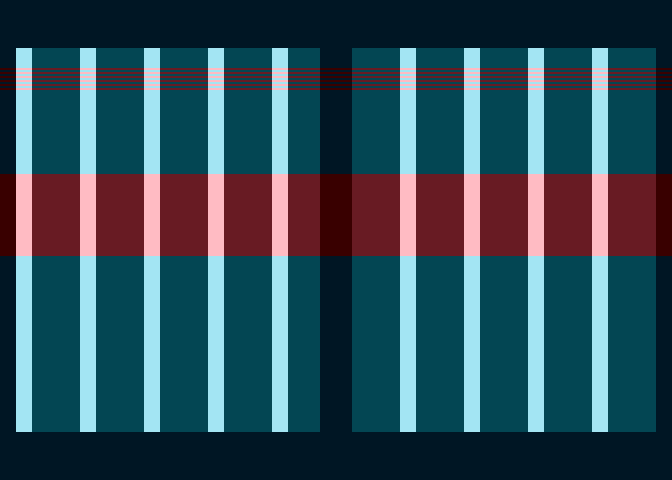
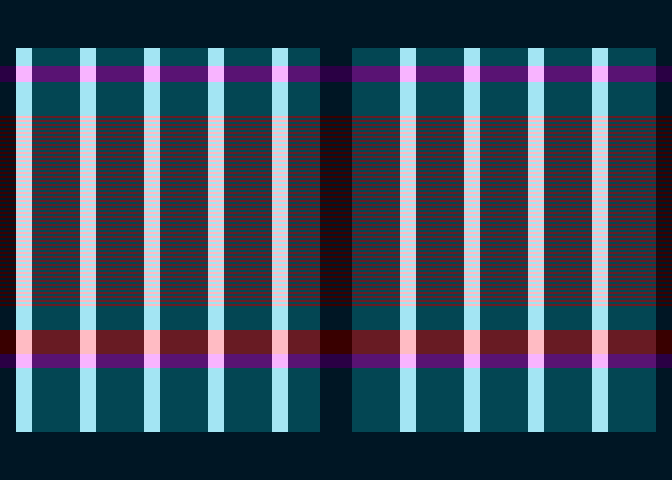
Mid-scanline colour splitting CONFIRMED on real hardware; calibration round 2
The staircase came back clean off the 800XL's CRT. A mid-scanline COLBK write
splits a line in GTIA mode 9 on real hardware and the edges are crisp -- no
smear across GTIA's 4-hi-res-pixel cell. This emulator cannot show it in any
build or mode, so the machine was the only way to find out.

Read off the ruler: steps even (linear), ~pixels 0-32 for 14 NOPs, so ~1.1-1.2
pixels per cycle -- close to the theoretical one mode-9 pixel per machine cycle.
What it did not pin down is the ceiling: with only 14 NOPs the run may simply
not have asked for enough delay, and if 32 pixels is the true limit the trick
only helps on the left third of the screen.

calib.xex is now round two: a 40-NOP slide over 20 steps four cycles apart,
deliberately demanding more than a scanline can afford, so the steps that overrun
come out DOUBLE HEIGHT and the first tall step is the measurement. Marker bands
above and below are now a THIRD hue -- round one's top marker was hue A against
a hue A screen and so invisible.

Game build unchanged: abyss.xex byte-identical to v1.6.

diff --git a/DEVLOG.md b/DEVLOG.md
@@ -2330,3 +2330,44 @@ Verified in the emulator as far as it can go: boots, does not hang, display list
 still 232 scanlines, the picture is identical across frames, the HUD is blanked,
 the ruler is exact in memory, and the staircase's table steps every six lines.
 What it cannot show is the only thing being asked.
+
+---
+
+## It works. Two hues on one scanline, on a real 800XL
+
+The calibration image went onto the CRT and came back a **clean staircase**.
+
+That answers, at a stroke, the question this emulator could not be made to
+answer at all — not in the default build, not in a cycle-exact one, not in GTIA
+mode 9 and not in plain ANTIC F. **A mid-scanline `COLBK` write splits a line on
+real hardware, and the edges are crisp.** No smear across GTIA's four-hi-res-
+pixel cell, which was the failure mode I thought most likely to sink it.
+
+Read off the photograph, against the luminance ruler:
+
+- the steps are **even**, so delay → pixel is linear, as predicted
+- the staircase spans roughly **pixels 0 to 32** for 14 NOPs (28 cycles), so
+  about **1.1–1.2 pixels per cycle** — close to the theoretical one mode-9 pixel
+  per machine cycle
+- full-width bands at the top of the run are, most likely, the steps whose body
+  overran its scanline
+
+That last one is the number that matters most and the one the image was too
+timid to pin down: **how far right can the transition be pushed before the
+per-line budget runs out?** With only 14 NOPs in the slide I may simply not have
+asked for enough. If the true ceiling is ~32 pixels then the trick only helps on
+the left third of the screen — in a corridor that is the left wall and not the
+right one, which is half a feature.
+
+### Round two asks the question properly
+
+`calib.xex` now carries a **40-NOP slide over 20 steps, four cycles apart**,
+deliberately demanding far more delay than a scanline can afford. Steps past the
+limit take two scanlines instead of one and so come out **double height** — so
+the first tall step *is* the measurement. Above and below the staircase sit
+solid bands in a **third hue**, because the first version's top marker was hue A
+against a screen that was already hue A and therefore invisible.
+
+One more photograph gives the slope, the reachable window, and the cliff edge —
+and then the kernel gets written against measured constants with nothing left to
+guess.
